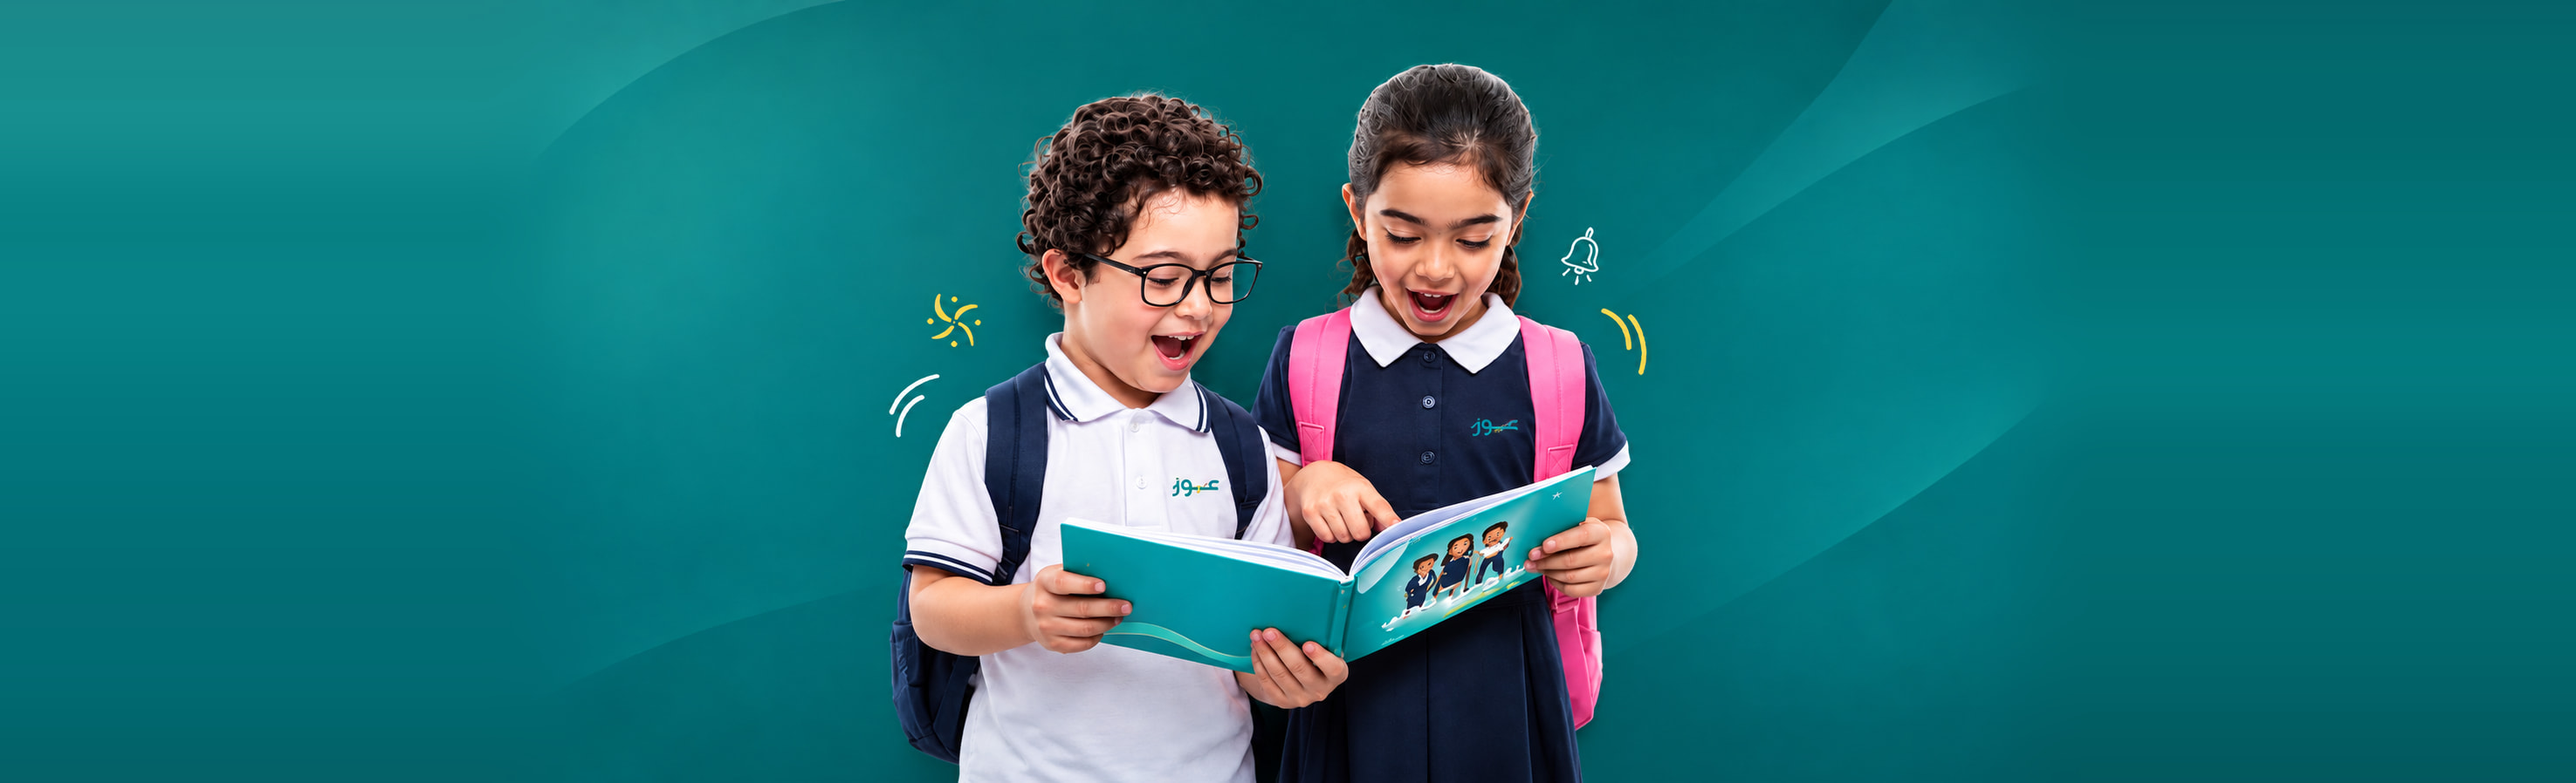
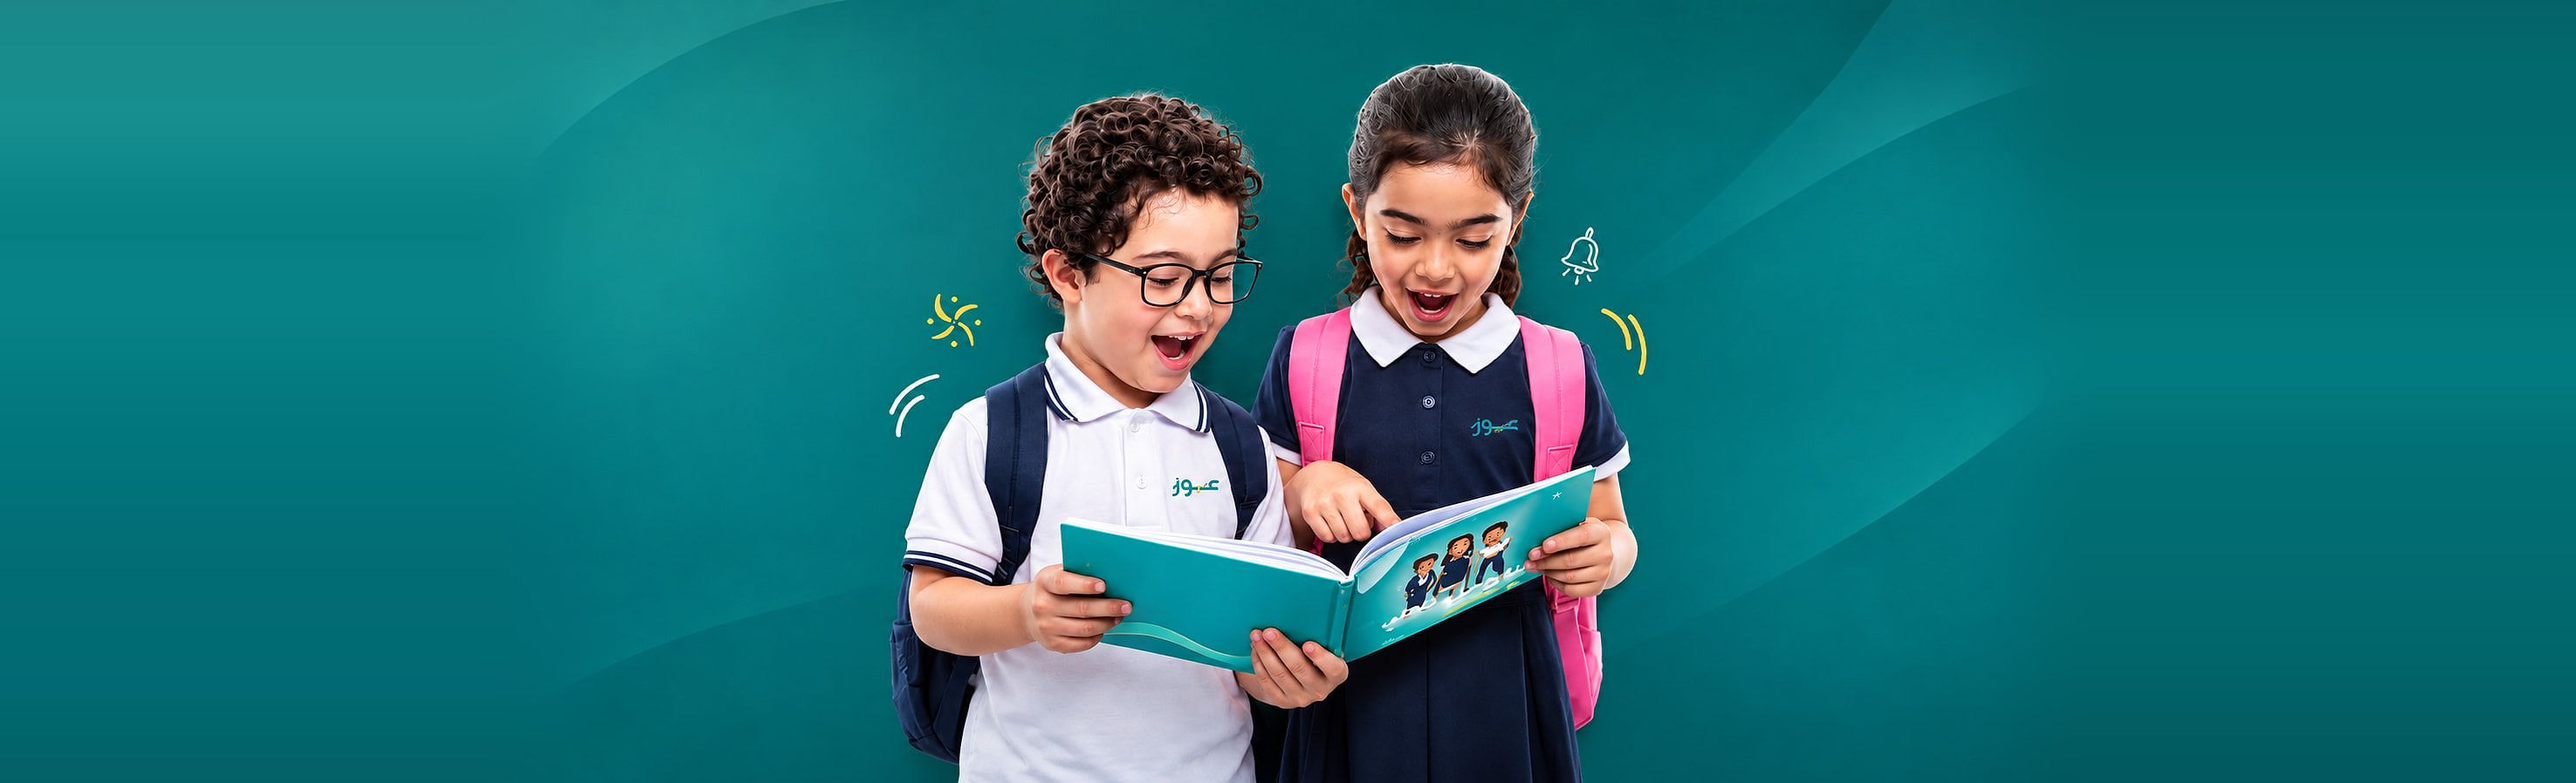
perf(home): hero art direction — cropped mobile image (960w) via <picture>, progressive slide loading, mild sharpen, ?v=2 cache-bust

diff --git a/src/components/home/Hero.tsx b/src/components/home/Hero.tsx
@@ -1,6 +1,6 @@
 "use client";
 
-import Image from "next/image";
+import Image, { getImageProps } from "next/image";
 import Link from "next/link";
 import { useState, useEffect, type ReactNode } from "react";
 import { pick, type Locale } from "@/i18n/config";
@@ -25,6 +25,17 @@ const HERO_BLUR: Record<string, string> = {
[2 lines of base64/hex data omitted]
 };
+// نسخة موبايل مقصوصة من منتصف الصورة العريضة (960×898) — شاشة الموبايل بتعرض الجزء ده بس،
+// فبدل تنزيل الصورة العريضة كلها (~77KB) بننزّل النص بنفس الدقة (~30KB) → LCP أسرع.
+// ?v= لكسر كاش المتصفح/الـCDN بعد تحديث الملفات (الـCMS بيفضل شايل المسار من غير ?v).
+const HERO_ART: Record<string, { desk: string; mob: string }> = {
+  "/figma/home/hero-1.jpg": { desk: "/figma/home/hero-1.jpg?v=2", mob: "/figma/home/hero-1-m.jpg?v=2" },
+  "/figma/home/hero-2.jpg": { desk: "/figma/home/hero-2.jpg?v=2", mob: "/figma/home/hero-2-m.jpg?v=2" },
+  "/figma/home/hero-3.jpg": { desk: "/figma/home/hero-3.jpg?v=2", mob: "/figma/home/hero-3-m.jpg?v=2" },
+};
+// ارتفاع الهيرو على الموبايل 600px × نسبة النسخة المقصوصة (960/898) ≈ 642px عرض فعلي
+const HERO_MOBILE_SIZES = "642px";
+const HERO_MOBILE_MEDIA = "(max-width: 639px)";
[1 lines of base64/hex data omitted]
 
 export default function Hero({ locale, slides: slidesProp, chrome }: { locale: Locale; slides?: HeroSlide[]; chrome?: HomeChrome }) {
@@ -90,6 +101,11 @@ export default function Hero({ locale, slides: slidesProp, chrome }: { locale: L
     return () => clearInterval(t);
   }, [n]);
 
+  const alt = pick(locale, "مركز عبور للرعاية والتأهيل", "Oboor Center for Care & Rehabilitation");
+  // تحميل الشرائح بالتدريج: الشريحة التالية بس (مش كل الشرائح مرة واحدة) عشان متنافسش
+  // على النت مع باقي الصفحة في أول تحميل.
+  const [loadedUpTo, setLoadedUpTo] = useState(1);
+  if (i + 1 > loadedUpTo) setLoadedUpTo(i + 1);
   const go = (idx: number) => setI(((idx % n) + n) % n);
   const s = slides[i];
 
@@ -104,11 +120,21 @@ export default function Hero({ locale, slides: slidesProp, chrome }: { locale: L
       {/* Background images — one per slide, cross-fading.
           الشريحة الأولى فقط أولوية عالية وتُحمَّل فورًا (LCP)؛ الباقي بعد الإقلاع. */}
       {slides.map((sl, idx) =>
-        idx === 0 || mounted ? (
+        idx === 0 || (mounted && idx <= loadedUpTo) ? (
+          HERO_ART[sl.img] ? (
+            <HeroArtImage
+              key={sl.img}
+              art={HERO_ART[sl.img]}
+              alt={alt}
+              first={idx === 0}
+              blur={sl.blur || HERO_BLUR[sl.img] || GENERIC_BLUR}
+              className={`object-cover ${sl.pos ?? (locale === "en" ? FOCAL_EN : FOCAL_AR)} transition-opacity duration-700 ${idx === i ? "opacity-100" : "opacity-0"}`}
+            />
+          ) : (
           <Image
             key={sl.img}
             src={sl.img}
-            alt={pick(locale, "مركز عبور للرعاية والتأهيل", "Oboor Center for Care & Rehabilitation")}
+            alt={alt}
             fill
             // Next 16: `priority` صار deprecated. الشريحة الأولى = عنصر LCP →
             // preload (رابط في <head> للاكتشاف المبكر) + fetchPriority=high على الطلب.
@@ -122,6 +148,7 @@ export default function Hero({ locale, slides: slidesProp, chrome }: { locale: L
             sizes={HERO_SIZES}
             className={`object-cover ${sl.pos ?? (locale === "en" ? FOCAL_EN : FOCAL_AR)} transition-opacity duration-700 ${idx === i ? "opacity-100" : "opacity-0"}`}
           />
+          )
         ) : null,
       )}
       {/* Gradient — teal concentrated behind the text side (direction-aware) */}
@@ -178,5 +205,27 @@ export default function Hero({ locale, slides: slidesProp, chrome }: { locale: L
         <path d="M0 60 C 240 100 480 100 720 70 C 960 40 1200 40 1440 70 L 1440 100 L 0 100 Z" />
       </svg>
     </section>
+  );
+}
+
+// صورة الهيرو بـ art direction: <picture> بنسخة موبايل مقصوصة ونسخة عريضة للتابلت/الديسكتوب.
+function HeroArtImage({ art, alt, first, blur, className }: { art: { desk: string; mob: string }; alt: string; first: boolean; blur: string; className: string }) {
+  const common = { alt, fill: true, quality: 90, placeholder: "blur" as const, blurDataURL: blur };
+  const {
+    props: { srcSet: deskSet },
+  } = getImageProps({ ...common, src: art.desk, sizes: HERO_SIZES });
+  const { props: mob } = getImageProps({
+    ...common,
+    src: art.mob,
+    sizes: HERO_MOBILE_SIZES,
+    loading: first ? "eager" : "lazy",
+    fetchPriority: first ? "high" : undefined,
+  });
+  return (
+    <picture>
+      <source media={HERO_MOBILE_MEDIA} srcSet={mob.srcSet} sizes={HERO_MOBILE_SIZES} />
+      <source srcSet={deskSet} sizes={HERO_SIZES} />
+      <img {...mob} alt={alt} className={className} />
+    </picture>
   );
 }
